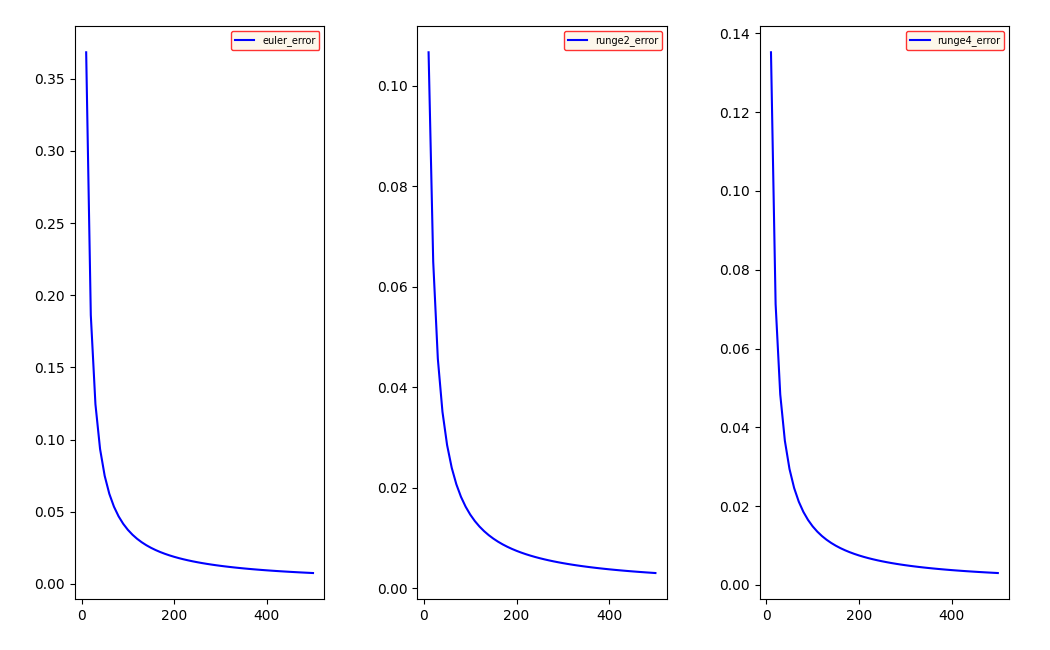
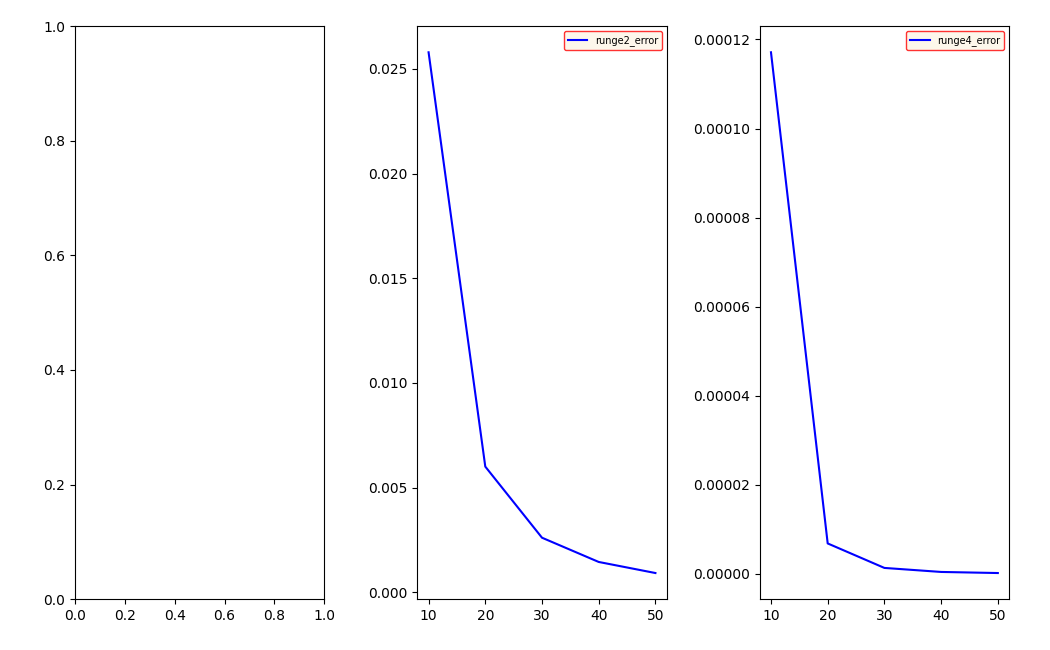
fixed the runge-kutta 4 order

diff --git a/task6.py b/task6.py
@@ -22,6 +22,7 @@ def difur(x: float) -> float:
 
 
 def func(t: float) -> float:
+    # x = np.exp(-1 * t)
     x = np.float64(1 / np.exp(t))
     return x
 
@@ -42,11 +43,11 @@ def runge_kutta_2order(M: int):
     alpha = 3/4 - optimum
     alpha = 1/2 - corrected Euler
     alpha = 1 - modified Euler
-    y_n+1 = y_n + h*[(1 - alpha)*f(x, y) + alpha*f(x + h/2*alpha, y + h/2*alpha * f(x_n, y_n))]
+    y_n+1 = y_n + h*[(1 - alpha)*f(x, y) + alpha*f(x + h/2*alpha, y + h/[2*alpha] * f(x_n, y_n))]
     :return: array of points
     """
 
-    alpha = np.float64(3./4.)
+    alpha = np.float64(1./2.)
     h = (np.float64(maxt) - np.float64(mint))/np.float64(M)
     x = [x0]
 
@@ -65,8 +66,6 @@ def runge_kutta_4order(M:int):
     k2 = f(x_n + h/2, y_n + h/2 * k1)
     k3 = f(x_n + h/2, y_n + h/2 * k3)
     k4 = f(x_n + h, y_n + h * k3)
-    :param M:
-    :return:
     """
 
     h = (np.float64(maxt) - np.float64(mint))/np.float64(M)
@@ -74,16 +73,17 @@ def runge_kutta_4order(M:int):
 
     for i in range(M):
         k1 = difur(x[i])
-        k2 = difur(x[i] + h * k1 / 2.)
-        k3 = difur(x[i] + h * k2 / 2.)
-        k4 = difur(x[i] + h * k3)
-        x.append(x[i] + (k1 + 2. * k2 + 2. * k3 + k4) * h / 6.)
+        k2 = difur(x[i] + k1 * h / 2.)
+        k3 = difur(x[i] + k2 * h / 2.)
+        k4 = difur(x[i] + k3 * h)
+        x.append(x[i] + h / 6. * (k1 + 2. * k2 + 2. * k3 + k4))
 
     return x
 
 
 def one_shot_errors(num, errors_euler, errors_runge2, errors_runge4):
-    plt.plot(num, errors_euler, label='euler_error', color='red')
+    plt.yscale('log')
+    # plt.plot(num, errors_euler, label='euler_error', color='red')
     plt.plot(num, errors_runge2, label='runge2_error', color='blue')
     plt.plot(num, errors_runge4, label='runge4_error', color='green')
 
@@ -92,14 +92,15 @@ def one_shot_errors(num, errors_euler, errors_runge2, errors_runge4):
 
 
 def error_trand():
-    M = 500
+    M = 50
     errors_euler = []
     errors_runge2 = []
     errors_runge4 = []
     for K in range(10, M+10, 10):
-        t = np.linspace(mint, maxt, K)
 
-        gt = [func(i) for i in t]
+        h = (np.float64(maxt) - np.float64(mint))/np.float64(K)
+
+        gt = [func(mint + i * h) for i in range(K)]
 
         euler_sol = euler(K)
         runge2 = runge_kutta_2order(K)
@@ -109,23 +110,23 @@ def error_trand():
         runge2_s = 0
         runge4_s = 0
         for i in range(len(gt)):
-            euler_s += (gt[i] - euler_sol[i+1])/gt[i]
-            runge2_s += (gt[i] - runge2[i + 1]) / gt[i]
-            runge4_s += (gt[i] - runge4[i + 1]) / gt[i]
+            # euler_s += (gt[i] - euler_sol[i+1])/gt[i]
+            runge2_s += np.abs(gt[i] - runge2[i])/gt[i]
+            runge4_s += np.abs(gt[i] - runge4[i])/gt[i]
 
-        errors_euler.append(euler_s/K)
-        errors_runge2.append(runge2_s/K)
-        errors_runge4.append(runge4_s/K)
+        # errors_euler.append(euler_s/float(len(gt)))
+        errors_runge2.append(runge2_s/float(len(gt)))
+        errors_runge4.append(runge4_s/float(len(gt)))
 
     num = [K for K in range(10, M+10, 10)]
 
     fig, axs = plt.subplots(nrows=1, ncols=3)
     plt.tight_layout(pad=1, h_pad=1, w_pad=1)
-    axs[0].plot(num, errors_euler, label='euler_error', color='blue')
+    # axs[0].plot(num, errors_euler, label='euler_error', color='blue')
     axs[1].plot(num, errors_runge2, label='runge2_error', color='blue')
     axs[2].plot(num, errors_runge4, label='runge4_error', color='blue')
 
-    axs[0].legend(fontsize=7, ncol=1, facecolor='oldlace', edgecolor='r')
+    # axs[0].legend(fontsize=7, ncol=1, facecolor='oldlace', edgecolor='r')
     axs[1].legend(fontsize=7, ncol=1, facecolor='oldlace', edgecolor='r')
     axs[2].legend(fontsize=7, ncol=1, facecolor='oldlace', edgecolor='r')
 
@@ -140,36 +141,39 @@ def error_trand():
 
 
 def run():
-    N = 10
+    N = 15
 
-    t = np.linspace(mint, maxt, N)
+    h = (np.float64(maxt) - np.float64(mint)) / np.float64(N)
 
-    gt = [func(i) for i in t]
+    gt = [func(mint + i * h) for i in range(N)]
+
+    t = [i * h for i in range(N)]
 
     fig, axs = plt.subplots(nrows=2, ncols=3)
     plt.tight_layout(pad=1, h_pad=1, w_pad=1)
+    # plt.yscale('log')
 
-    euler_sol = euler(N)
-    euler_dif = [gt[i] - euler_sol[i+1] for i in range(len(gt))]
+    # euler_sol = euler(N)
+    # euler_dif = [gt[i] - euler_sol[i+1] for i in range(len(gt))]
 
     runge2 = runge_kutta_2order(N)
-    runge2_dif = [gt[i] - runge2[i+1] for i in range(len(gt))]
+    runge2_dif = [gt[i] - runge2[i] for i in range(len(gt))]
 
     runge4 = runge_kutta_4order(N)
-    runge4_dif = [gt[i] - runge4[i+1] for i in range(len(gt))]
+    runge4_dif = [np.abs(gt[i] - runge4[i]) for i in range(len(gt))]
 
-    axs[0, 0].plot(t, euler_sol[1:], label='euler', color='red')
-    axs[0, 0].plot(t, gt, label='ground_truth', color='blue')
+    # axs[0, 0].plot(t, euler_sol[1:], label='euler', color='red')
+    # axs[0, 0].plot(t, gt, label='ground_truth', color='blue')
     # axs[1, 0].plot(t, euler_dif, label='difference', color='green')
 
-    axs[0, 0].legend(fontsize=7, ncol=1, facecolor='oldlace', edgecolor='r')
+    # axs[0, 0].legend(fontsize=7, ncol=1, facecolor='oldlace', edgecolor='r')
 
     axs[0, 1].plot(t, runge2[1:], label='Runge 2 order', color='red')
     axs[0, 1].plot(t, gt, label='ground_truth', color='blue')
 
     axs[0, 1].legend(fontsize=7, ncol=1, facecolor='oldlace', edgecolor='r')
 
-    axs[1, 1].plot(t, euler_dif, label='euler_dif', color='green')
+    # axs[1, 1].plot(t, euler_dif, label='euler_dif', color='green')
     axs[1, 1].plot(t, runge2_dif, label='runge2_dif', color='red')
     axs[1, 1].plot(t, runge4_dif, label='runge4_dif', color='blue')
 
